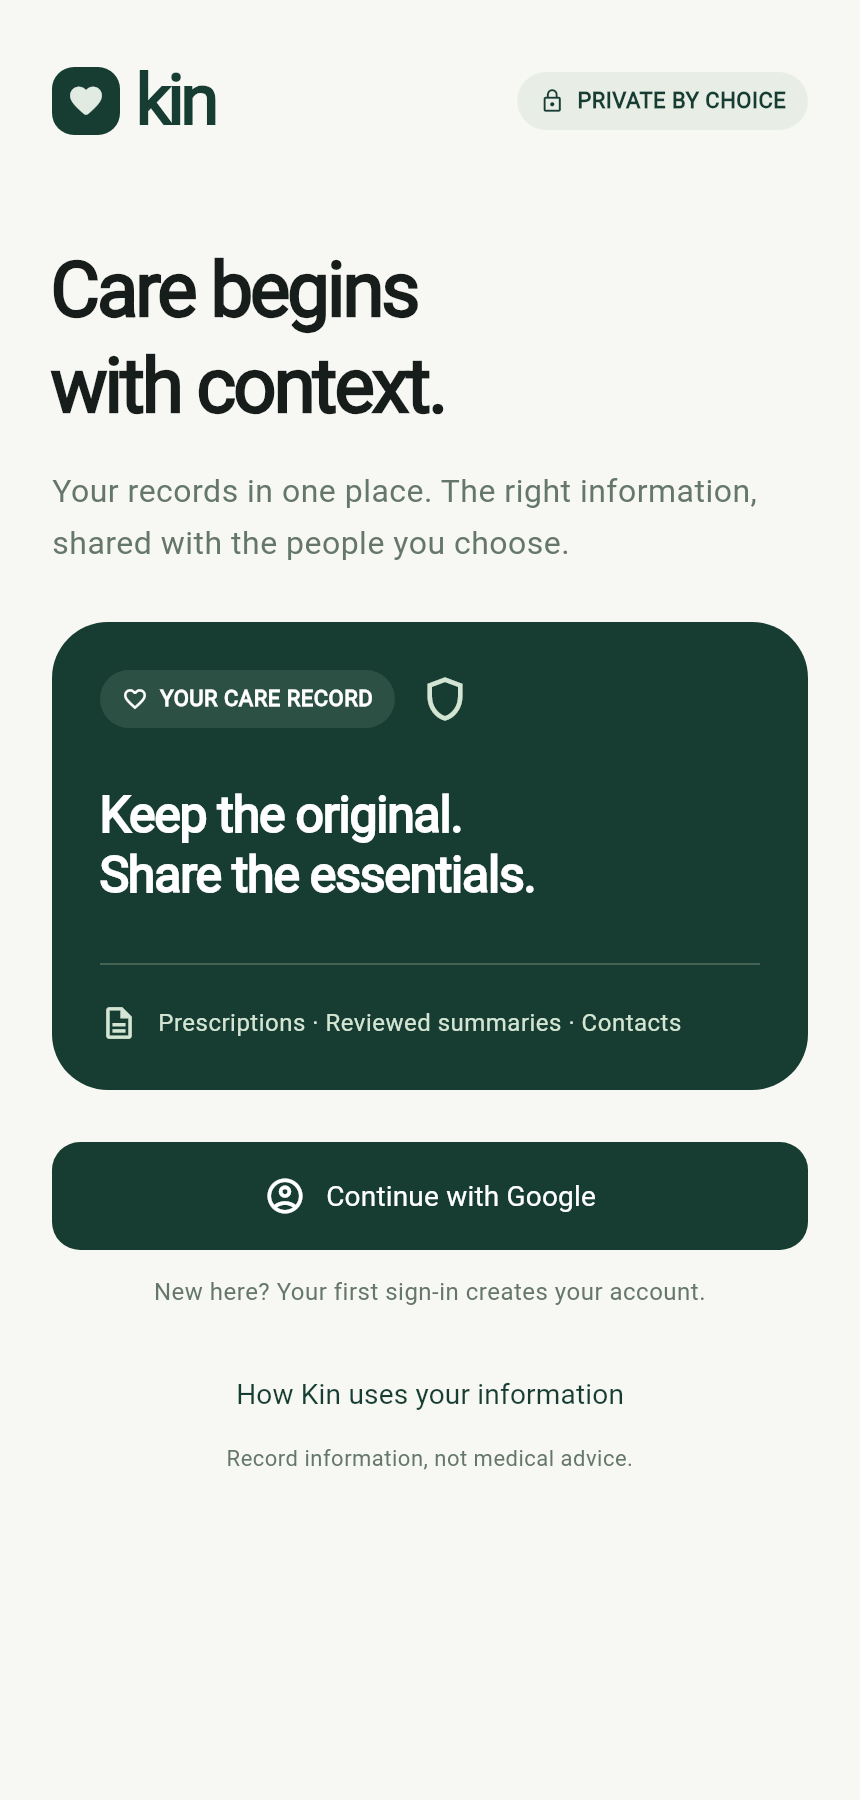
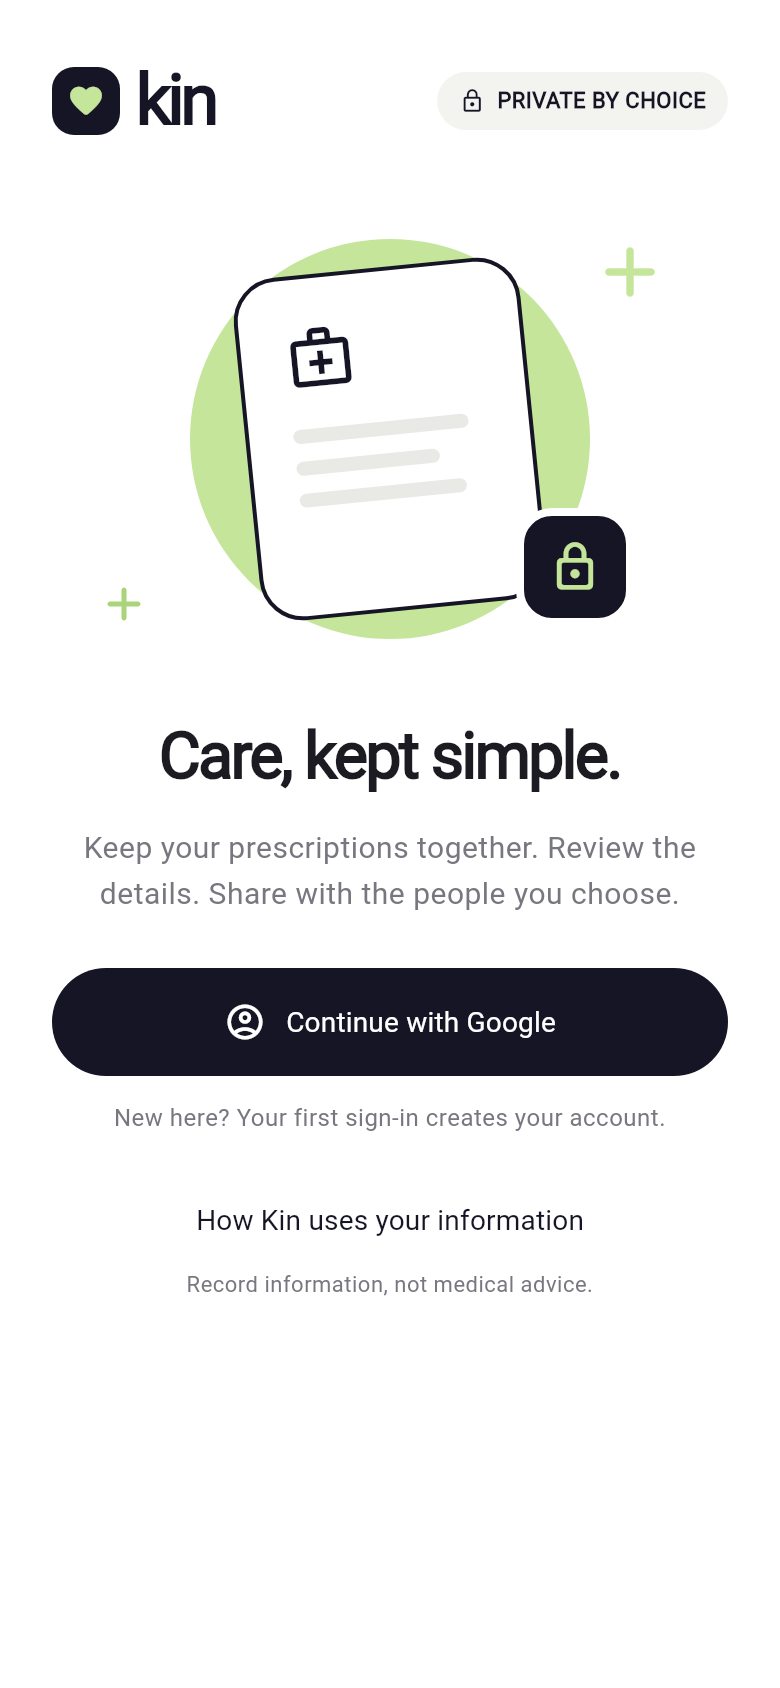
release: update website to the signed reference UI app

diff --git a/apps/website/index.html b/apps/website/index.html
@@ -1,9 +1,9 @@
-<!doctype html><html lang="en"><head><meta charset="utf-8"><meta name="viewport" content="width=device-width, initial-scale=1"><meta name="theme-color" content="#173d33"><meta name="description" content="Kin is an open-source Android health-record prototype for reviewed prescriptions and permission-based sharing. Download the preview and explore the project."><meta property="og:title" content="Kin — Your records. Your people. Your permission."><meta property="og:description" content="Kin is an open-source Android health-record prototype for reviewed prescriptions and permission-based sharing. Download the preview and explore the project."><meta property="og:type" content="website"><title>Kin — Your records. Your people. Your permission.</title><link rel="icon" href="/assets/kin-mark.svg" type="image/svg+xml"><link rel="stylesheet" href="/style.css"><script src="/script.js" defer></script></head><body><header class="site-header"><div class="container header-inner"><a class="brand" href="/" aria-label="Kin home"><img src="/assets/kin-mark.svg" alt="" width="32" height="32">kin<span>Care, kept close.</span></a><nav aria-label="Main navigation"><a href="/#how-it-works">How it works</a><a href="/#privacy">Privacy</a><a href="/docs/">Documentation</a><a class="nav-download" href="/#download">Get the app <span aria-hidden="true">↗</span></a></nav></div></header><main id="main"><section class="hero container"><div class="hero-copy reveal"><p class="eyebrow"><span class="status-dot"></span> Personal health records, shared with care</p><h1>Your records.<br>Your people.<br><em>Your permission.</em></h1><p class="hero-description">A prescription tells part of your story. Kin helps you keep it, review it, and share the essentials with someone you trust.</p><div class="actions"><a class="button primary" href="#download">Get Kin for Android <span aria-hidden="true">↓</span></a><a class="text-link" href="#how-it-works">See how it works <span aria-hidden="true">↗</span></a></div><p class="quiet hero-note">Open source. Built for Android. Shared records open in a browser.</p></div><div class="hero-visual reveal"><div class="visual-label"><span class="eyebrow">A closer look at Kin</span><span>01 / Owner app</span></div><div class="phone-wrap"><div class="phone"><div class="phone-top"><span>9:41</span><span aria-hidden="true">● ▰</span></div><img src="/assets/app-home.png" alt="Actual Kin Android home screen with prescription upload, summary sharing and contact QR actions" width="860" height="1800" fetchpriority="high"><div class="phone-bottom"></div></div><div class="permission-note"><span class="note-icon" aria-hidden="true">↗</span><div><strong>The essentials, by invitation.</strong><p>Your original stays private.</p></div></div></div><p class="image-caption">Actual app interface · empty-record preview</p></div></section>
+<!doctype html><html lang="en"><head><meta charset="utf-8"><meta name="viewport" content="width=device-width, initial-scale=1"><meta name="theme-color" content="#173d33"><meta name="description" content="Kin is an open-source Android health-record prototype for reviewed prescriptions and permission-based sharing. Download the preview and explore the project."><meta property="og:title" content="Kin — Your records. Your people. Your permission."><meta property="og:description" content="Kin is an open-source Android health-record prototype for reviewed prescriptions and permission-based sharing. Download the preview and explore the project."><meta property="og:type" content="website"><title>Kin — Your records. Your people. Your permission.</title><link rel="icon" href="/assets/kin-mark.svg" type="image/svg+xml"><link rel="stylesheet" href="/style.css"><script src="/script.js" defer></script></head><body><header class="site-header"><div class="container header-inner"><a class="brand" href="/" aria-label="Kin home"><img src="/assets/kin-mark.svg" alt="" width="32" height="32">kin<span>Care, kept close.</span></a><nav aria-label="Main navigation"><a href="/#how-it-works">How it works</a><a href="/#privacy">Privacy</a><a href="/docs/">Documentation</a><a class="nav-download" href="/#download">Get the app <span aria-hidden="true">↗</span></a></nav></div></header><main id="main"><section class="hero container"><div class="hero-copy reveal"><p class="eyebrow"><span class="status-dot"></span> Personal health records, shared with care</p><h1>Your records.<br>Your people.<br><em>Your permission.</em></h1><p class="hero-description">A prescription tells part of your story. Kin helps you keep it, review it, and share the essentials with someone you trust.</p><div class="actions"><a class="button primary" href="#download">Get Kin for Android <span aria-hidden="true">↓</span></a><a class="text-link" href="#how-it-works">See how it works <span aria-hidden="true">↗</span></a></div><p class="quiet hero-note">Open source. Built for Android. Shared records open in a browser.</p></div><div class="hero-visual reveal"><div class="visual-label"><span class="eyebrow">A closer look at Kin</span><span>01 / Owner app</span></div><div class="phone-wrap"><div class="phone"><div class="phone-top"><span>9:41</span><span aria-hidden="true">● ▰</span></div><img src="/assets/app-home.png?v=0.1.4" alt="Actual Kin Android home screen with prescription upload, summary sharing and contact QR actions" width="780" height="1688" fetchpriority="high"><div class="phone-bottom"></div></div><div class="permission-note"><span class="note-icon" aria-hidden="true">↗</span><div><strong>The essentials, by invitation.</strong><p>Your original stays private.</p></div></div></div><p class="image-caption">Actual app interface · empty-record preview · 0.1.4</p></div></section>
 <div class="principles"><div class="container"><span>01 <strong>Keep the original</strong></span><span>02 <strong>Review the details</strong></span><span>03 <strong>Choose what to share</strong></span></div></div>
 <section class="section container context reveal"><div><p class="eyebrow">The reason we built Kin</p><h2>Care has a history.<br>It shouldn’t be hard<br>to find.</h2></div><div class="context-copy"><p>Paper prescriptions. Photos buried in a gallery. A medicine name you can’t quite remember. Medical information often lives in too many places.</p><p>Kin brings prescription records together, while keeping a clear boundary between your private history and the details you choose to share.</p><div class="small-callout"><span aria-hidden="true">+</span><p>Context for a conversation with a clinician.<br><strong>No diagnosis. No treatment recommendations.</strong></p></div></div></section>
 <section class="section workflow" id="how-it-works"><div class="container"><div class="section-heading reveal"><div><p class="eyebrow">From paper to permission</p><h2>Three considered steps.</h2></div><p>A small, deliberate workflow.<br>You stay in control at each step.</p></div><div class="steps"><article class="step reveal"><span class="step-number">01 / Keep</span><div class="step-art paper-art" aria-hidden="true"><div class="paper"><span>YOUR PRESCRIPTION</span><i></i><i></i><i></i><div>Private original <b>↗</b></div></div></div><h3>One place for your records.</h3><p>Add a clear, typed prescription image. The original belongs in your private history, alongside the details you save.</p><span class="step-foot">JPEG or PNG · one page · up to 5 MB</span></article><article class="step reveal"><span class="step-number">02 / Review</span><div class="step-art review-art" aria-hidden="true"><span>RECORD DETAILS</span><div>Medicine name <b>Review</b></div><div>Prescription date <b>Review</b></div><div>Missing information <b>Unknown</b></div></div><h3>Read it. Check it. Keep it.</h3><p>Enter fields manually, or review a draft extracted by Gemma. Compare every field with the original before saving.</p><span class="step-foot">Owner review is not clinical verification</span></article><article class="step reveal"><span class="step-number">03 / Share</span><div class="step-art share-art" aria-hidden="true"><div class="share-circle">↗</div><div><strong>Your selection</strong><span>One invited account</span><span>24-hour access</span></div></div><h3>A selection, not your whole history.</h3><p>Publish the medicines, allergies and notes you choose. Invite one Google account to a view-only snapshot, with revocation on the next request.</p><span class="step-foot">Originals and draft fields stay private</span></article></div></div></section>
-<section class="section container sharing"><div class="sharing-visual reveal"><div class="phone small-phone"><div class="phone-top"><span>9:41</span><span aria-hidden="true">● ▰</span></div><img src="/assets/app-signin.png" alt="Actual Kin sign-in interface showing its records and permission-focused design; Google service setup is still required" width="860" height="1800" loading="lazy"><div class="phone-bottom"></div></div><p class="image-caption">Actual app interface · account entry</p></div><div class="sharing-copy reveal"><p class="eyebrow">Thoughtful access, without extra friction</p><h2>You have the app.<br>They just need<br>a browser.</h2><p>Recipients open a standard web link on their phone or computer. No app download is needed to view shared information.</p><div class="access-row"><span class="access-symbol" aria-hidden="true">↗</span><div><h3>A medical invitation</h3><p>Designed for one invited Google account. Selected information only, for 24 hours from link creation.</p></div></div><div class="access-row"><span class="access-symbol" aria-hidden="true">⌁</span><div><h3>A separate contact QR</h3><p>Anyone with the QR can see your chosen emergency contacts. It contains no medical records. Rotate or revoke it when needed.</p></div></div><p class="quiet">Both routes require an internet connection. Medical invitations require the invited Google account.</p></div></section>
+<section class="section container sharing"><div class="sharing-visual reveal"><div class="phone small-phone"><div class="phone-top"><span>9:41</span><span aria-hidden="true">● ▰</span></div><img src="/assets/app-signin.png?v=0.1.4" alt="Actual Kin sign-in interface showing its records and permission-focused design; Google service setup is still required" width="780" height="1688" loading="lazy"><div class="phone-bottom"></div></div><p class="image-caption">Actual app interface · Google account entry · 0.1.4</p></div><div class="sharing-copy reveal"><p class="eyebrow">Thoughtful access, without extra friction</p><h2>You have the app.<br>They just need<br>a browser.</h2><p>Recipients open a standard web link on their phone or computer. No app download is needed to view shared information.</p><div class="access-row"><span class="access-symbol" aria-hidden="true">↗</span><div><h3>A medical invitation</h3><p>Designed for one invited Google account. Selected information only, for 24 hours from link creation.</p></div></div><div class="access-row"><span class="access-symbol" aria-hidden="true">⌁</span><div><h3>A separate contact QR</h3><p>Anyone with the QR can see your chosen emergency contacts. It contains no medical records. Rotate or revoke it when needed.</p></div></div><p class="quiet">Both routes require an internet connection. Medical invitations require the invited Google account.</p></div></section>
 <section class="privacy-section" id="privacy"><div class="container"><div class="section-heading reveal"><div><p class="eyebrow">A boundary worth keeping</p><h2>Permission is part<br>of the product.</h2></div><p>Sharing shouldn’t mean handing<br>over your entire medical history.</p></div><div class="privacy-grid"><article class="reveal"><span>01</span><h3>Private by default.</h3><p>Original images, extraction drafts and full history stay separate from recipient responses. Server-side ownership checks enforce access.</p></article><article class="reveal"><span>02</span><h3>Specific access.</h3><p>Medical invitations bind to the invited account. Expiry and revocation are checked on every read. Contact QR links are intentionally public.</p></article><article class="reveal"><span>03</span><h3>Clear limits.</h3><p>Revocation cannot erase a copy already made. Kin’s server and AI provider can process plaintext; we do not claim end-to-end encryption.</p></article></div><a class="light-link" href="https://github.com/ashuujha/kin/blob/main/docs/THREAT_MODEL.md">Read the threat model <span aria-hidden="true">↗</span></a></div></section>
 <section class="section container resources" id="documentation"><div class="section-heading reveal"><div><p class="eyebrow">The project, in the open</p><h2>Read beyond the pitch.</h2></div><a class="text-link" href="/docs/">All documentation ↗</a></div><div class="resource-grid"><a class="resource reveal" href="/docs/"><span>01 / Project guide</span><h3>What Kin does.<br>And where it stops.</h3><p>Scope, architecture, demo flow and current release status.</p><b aria-hidden="true">↗</b></a><a class="resource reveal" href="https://github.com/ashuujha/kin"><span>02 / Source code</span><h3>Inspect it.<br>Build on it.</h3><p>Flutter, TypeScript and PostgreSQL. Public source under the MIT license.</p><b aria-hidden="true">↗</b></a><a class="resource reveal" href="https://github.com/ashuujha/kin/blob/main/docs/PITCH.md"><span>03 / For judges &amp; mentors</span><h3>The story behind<br>the build.</h3><p>The problem, the product boundary and the demonstration plan.</p><b aria-hidden="true">↗</b></a></div></section>
-<section class="download-section" id="download"><div class="container download-grid"><div class="reveal"><p class="eyebrow">Kin for Android</p><h2>Keep your care<br>a little closer.</h2><p>Download the current hackathon preview.<br>Try the workflow with fictional records.</p><div class="release-meta"><span>v0.1.3</span><span>Android preview</span><span>9 October 2026</span></div></div><div class="download-panel reveal"><span class="eyebrow">Current public release</span><h3>Android APK</h3><p>For most recent Android phones.</p><a class="button primary full" href="https://kin-downloads.vercel.app/kin-0.1.3-hosted-arm64.apk">Download ARM64 · 19.4 MB <span aria-hidden="true">↓</span></a><a class="secondary-download" href="https://github.com/ashuujha/kin/releases/download/v0.1.3-hosted/kin-0.1.3-hosted-arm64.apk">Alternative ARM64 download from GitHub ↗</a><a class="secondary-download" href="https://github.com/ashuujha/kin/releases/download/v0.1.3-hosted/kin-0.1.3-hosted-armv7.apk">Older phone? Download ARMv7 · 16.9 MB ↗</a><div class="download-notice"><strong>Before you install</strong><p>This signed build connects to hosted services. Live AI draft extraction has been checked with a fictional prescription. Google now opens its sign-in page correctly; completing login on a physical device remains pending.</p><p>Android may ask you to allow installation from your browser. Uninstall the older debug-signed Kin preview before installing this release. This clears its local app data.</p></div><a class="text-link" href="https://github.com/ashuujha/kin/releases/tag/v0.1.3-hosted">Release notes &amp; checksums ↗</a></div></div></section>
+<section class="download-section" id="download"><div class="container download-grid"><div class="reveal"><p class="eyebrow">Kin for Android</p><h2>Keep your care<br>a little closer.</h2><p>Download the current hackathon preview.<br>Try the workflow with fictional records.</p><div class="release-meta"><span>v0.1.4</span><span>Android preview</span><span>9 October 2026</span></div></div><div class="download-panel reveal"><span class="eyebrow">Current public release</span><h3>Android APK</h3><p>For most recent Android phones.</p><a class="button primary full" href="https://github.com/ashuujha/kin/releases/download/v0.1.4-hosted/kin-0.1.4-hosted-arm64.apk">Download ARM64 · 19.4 MB <span aria-hidden="true">↓</span></a><a class="secondary-download" href="https://kin-downloads.vercel.app/kin-0.1.3-hosted-arm64.apk">Previous hosted version · 0.1.3 ARM64 mirror ↗</a><a class="secondary-download" href="https://github.com/ashuujha/kin/releases/download/v0.1.4-hosted/kin-0.1.4-hosted-armv7.apk">Older phone? Download ARMv7 · 16.9 MB ↗</a><div class="download-notice"><strong>Before you install</strong><p>This signed build connects to hosted services. Live AI draft extraction has been checked with a fictional prescription. Google now opens its sign-in page correctly; completing login on a physical device remains pending.</p><p>Android may ask you to allow installation from your browser. Uninstall older debug-signed previews first. The signed 0.1.3 hosted build can update to 0.1.4. Removing an app clears its local data.</p></div><a class="text-link" href="https://github.com/ashuujha/kin/releases/tag/v0.1.4-hosted">Release notes &amp; checksums ↗</a></div></div></section>
 <section class="section container faq"><div class="reveal"><p class="eyebrow">A few practical questions</p><h2>Know what you’re opening.</h2></div><div class="faq-list reveal"><details><summary>Is this ready for real patient records?<span aria-hidden="true">+</span></summary><p>No. Kin is a hackathon prototype. Use fictional records. Hosted authorization and live AI extraction checks have passed; The physical-device Google login walkthrough and production operational review remain incomplete.</p></details><details><summary>Does the recipient need to install Kin?<span aria-hidden="true">+</span></summary><p>No. Both recipient routes open in a standard browser. Medical invitations require the invited Google account. Contact QR links require no login.</p></details><details><summary>Does AI decide what medicines I should take?<span aria-hidden="true">+</span></summary><p>No. AI is limited to extracting a draft from an uploaded prescription. You review it against the original. Kin does not diagnose, predict health risks, check drug interactions or recommend treatment.</p></details><details><summary>Can I use it without the development laptop?<span aria-hidden="true">+</span></summary><p>The 0.1.3 APK connects directly to hosted Supabase and the browser receiver. It needs an internet connection. Google sign-in is configured; the physical-device login walkthrough remains pending.</p></details><details><summary>What happens when I revoke access?<span aria-hidden="true">+</span></summary><p>The service denies subsequent reads of a revoked medical invitation. A recipient may already have copied the information. Public contact cards can also be revoked or rotated.</p></details></div></section></main><footer><div class="container footer-top"><a class="brand" href="/"><img src="/assets/kin-mark.svg" alt="" width="32" height="32">kin</a><p>Your information. Your permission.</p><a href="https://github.com/ashuujha/kin" target="_blank" rel="noopener noreferrer">Built in the open ↗</a></div><div class="container footer-bottom"><span>Kin · Hackathon prototype · 2026</span><div><a href="/docs/">Documentation</a><a href="https://github.com/ashuujha/kin/blob/main/docs/PRIVACY.md">Privacy details</a><a href="https://github.com/ashuujha/kin/blob/main/LICENSE">MIT license</a></div><span>Use fictional records for demonstrations.</span></div></footer></body></html>

diff --git a/docs/VALIDATION.md b/docs/VALIDATION.md
@@ -1,3 +1,11 @@
+# Reference UI release · 0.1.4
+
+The [signed Android build](https://github.com/ashuujha/kin/actions/runs/37926670811) passed analysis, six Flutter tests and release compilation from `9efdbb42550156bb263c60d3fc53631d9f08f6c2`. The [publishing job](https://github.com/ashuujha/kin/actions/runs/37927329084) uploaded all three CPU builds and checksums directly from GitHub. The [public release](https://github.com/ashuujha/kin/releases/tag/v0.1.4-hosted) is available. ARM64 is 19,390,720 bytes; ARMv7 is 16,897,740 bytes.
+
+The full public ARM64 download matched its SHA-256. Archive CRCs, ARM64 libraries, compiled hosted URL and the persistent signing certificate were verified. It can update the signed 0.1.3 hosted app. Older debug builds require removal first.
+
+The reference-based redesign uses white surfaces, pale green highlights, dark pill buttons, compact sharing cards and an original medical-record illustration. Actual Flutter sign-in/home renders were exported and visually reviewed; both 320px and 390px layouts passed overflow checks. The website uses those actual images with versioned image URLs. Hosted services and the remaining physical-device Google walkthrough status below still apply.
+
 # Hosted release status · 9 October 2026
 
 The signed [0.1.3 hosted build](https://github.com/ashuujha/kin/actions/runs/37922512583) passed release compilation, Flutter analysis and tests. ARM64 is 19,390,840 bytes; ARMv7 is 16,897,864 bytes. Archive CRCs, CPU libraries, compiled hosted Supabase URL and the persistent distribution certificate were checked. Public APKs and SHA-256 checksums are attached to the [prerelease](https://github.com/ashuujha/kin/releases/tag/v0.1.3-hosted). Uninstall older debug-signed previews before installing.

diff --git a/docs/LAUNCH.md b/docs/LAUNCH.md
@@ -2,13 +2,13 @@
 
 ## Current Kin deployment
 
-The 0.1.3 signed hosted preview uses Supabase project `wbhjgppzyhqlagjxyzrn`,
+The 0.1.4 signed hosted preview uses Supabase project `wbhjgppzyhqlagjxyzrn`,
 the [browser receiver](https://ashuujha.github.io/kin/) and the
 [download website](https://kin-care-ten.vercel.app/). Migrations, private storage,
 Google provider configuration and server-only Google Gemma extraction are deployed.
 See [the validation record](VALIDATION.md) for tested flows and remaining device checks.
 
-Uninstall the older debug-signed preview, install 0.1.3, and start a fresh
+Uninstall the older debug-signed preview, install 0.1.4, and start a fresh
 **Continue with Google** attempt from the app. Do not open the Supabase callback
 URL directly: it requires the state created by a sign-in attempt. If Google is
 in Testing, add the owner, recipient and judge accounts as test users.
